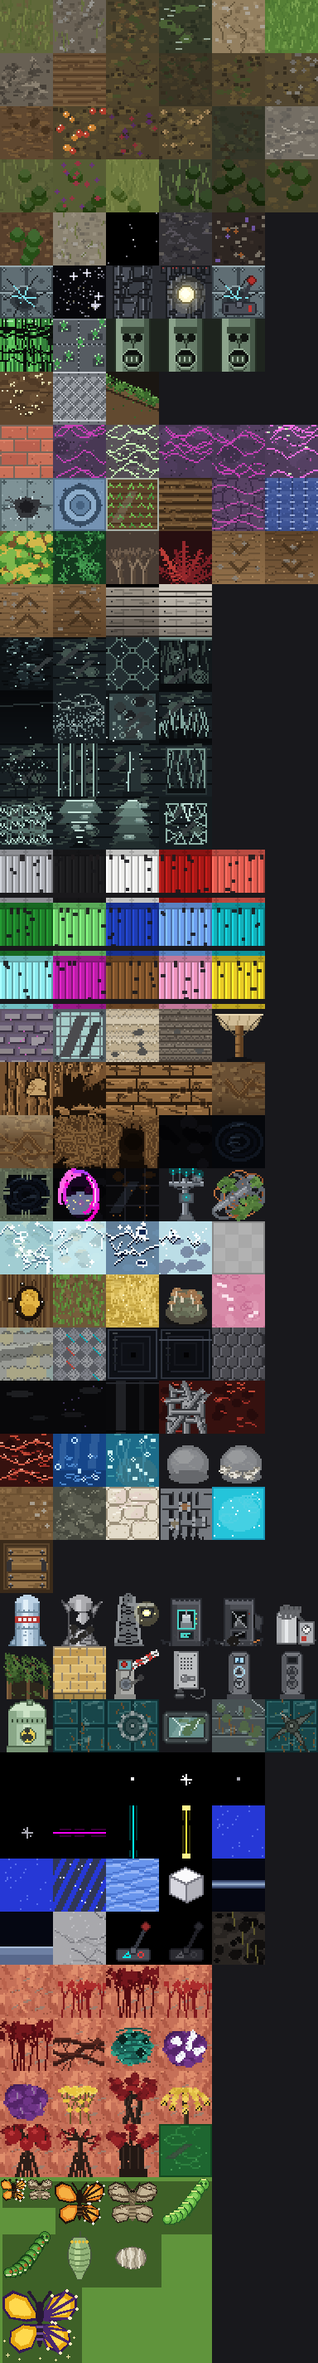
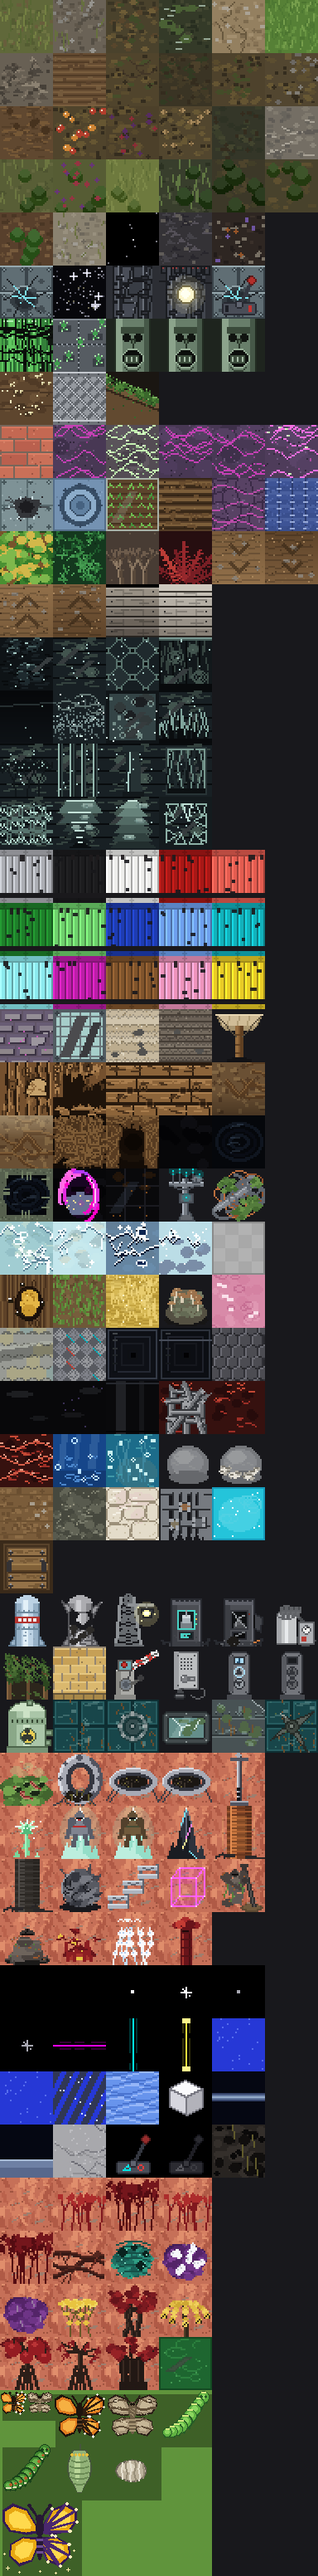
Coverage audit: record for 2g.4 batch 11

diff --git a/coverage-audit/REPORT.md b/coverage-audit/REPORT.md
@@ -359,6 +359,29 @@ the by-design transparent feature sprites), previews inspected.
 The drive continues with furniture (174 missing at the audit) and
 monsters (468).
 
+## Created: the alien furniture (Phase 2g.4 batch 11, 2026-11-15)
+
+The furniture drive opens: **19 ids** from `furniture-alien.json`
+and `furniture_alien_meadow.json` — the gas-belching alien scar,
+the Exodii portal enclosure and both floor portal rings (verbatim-
+identical game entries, one drawing), the locator antenna, the
+crystalline flower, the impaled officer and soldier over the
+glowing spike (and the empty spike), the string-dimension pylons
+(humming vs inert), the imploded housing, the warped shelf and
+crate, the dead Exodii (whole and heartless), and the three alien
+weeds. Palette anchored to the alien-meadow terrain batch.
+`new-tiles/draw_alien_furniture.py`;
+`new-tiles/preview_alien_furniture.png`.
+
+Verified per the 2g.4 gate (parent re-run): **19 materials, all
+`exact`, 0 missing** (57 layers), byte-identical re-run. Coverage
+movement (furniture overlay, baseline 174 reproduced): 19 direct,
+no rescues — furniture missing **174 → 155**, coverage **75.6% →
+78.3%** (539/713 → 558/713). (A folder-based cross-check already
+reads 104 because the stack/mound batch's 51 folders are on disk
+awaiting their own verification; the chain reconciles when it
+lands.)
+
 ## Status
 
 Batches are committed locally as they land (butterfly/moth in

diff --git a/coverage-audit/new-tiles/README.md b/coverage-audit/new-tiles/README.md
@@ -26,6 +26,22 @@ All parent re-verified: voxelizer all-`exact`/0 missing,
 byte-identical re-runs, opacity checks clean, previews inspected.
 Furniture and monsters are the remaining drive.
 
+## Furniture batch 11: the alien furniture (Phase 2g.4, 2026-11-15)
+
+**19 ids** from `furniture-alien.json` +
+`furniture_alien_meadow.json`: the alien scar, Exodii portal
+enclosure and floor rings, locator antenna, crystalline flower,
+the impaled pair and empty spike, string-dimension pylons (live
+and inert), imploded housing, warped shelf and crate, dead Exodii
+pair, three alien weeds. Drawn by `draw_alien_furniture.py` (PIL,
+deterministic), palette anchored to the alien-meadow terrain.
+
+Verified: release voxelizer test-tileset run, **19 materials, all
+`exact`, 0 missing** (57 layers), byte-identical re-run, parent
+re-verified. `preview_alien_furniture.png` is the contact sheet.
+Coverage: furniture missing **174 → 155**, coverage **75.6% →
+78.3%**.
+
 ## Terrain batch 7: the walls (Phase 2g.4, 2026-11-15)
 
 **All 20 missing ids in `terrain-walls.json`**: the shipping-
